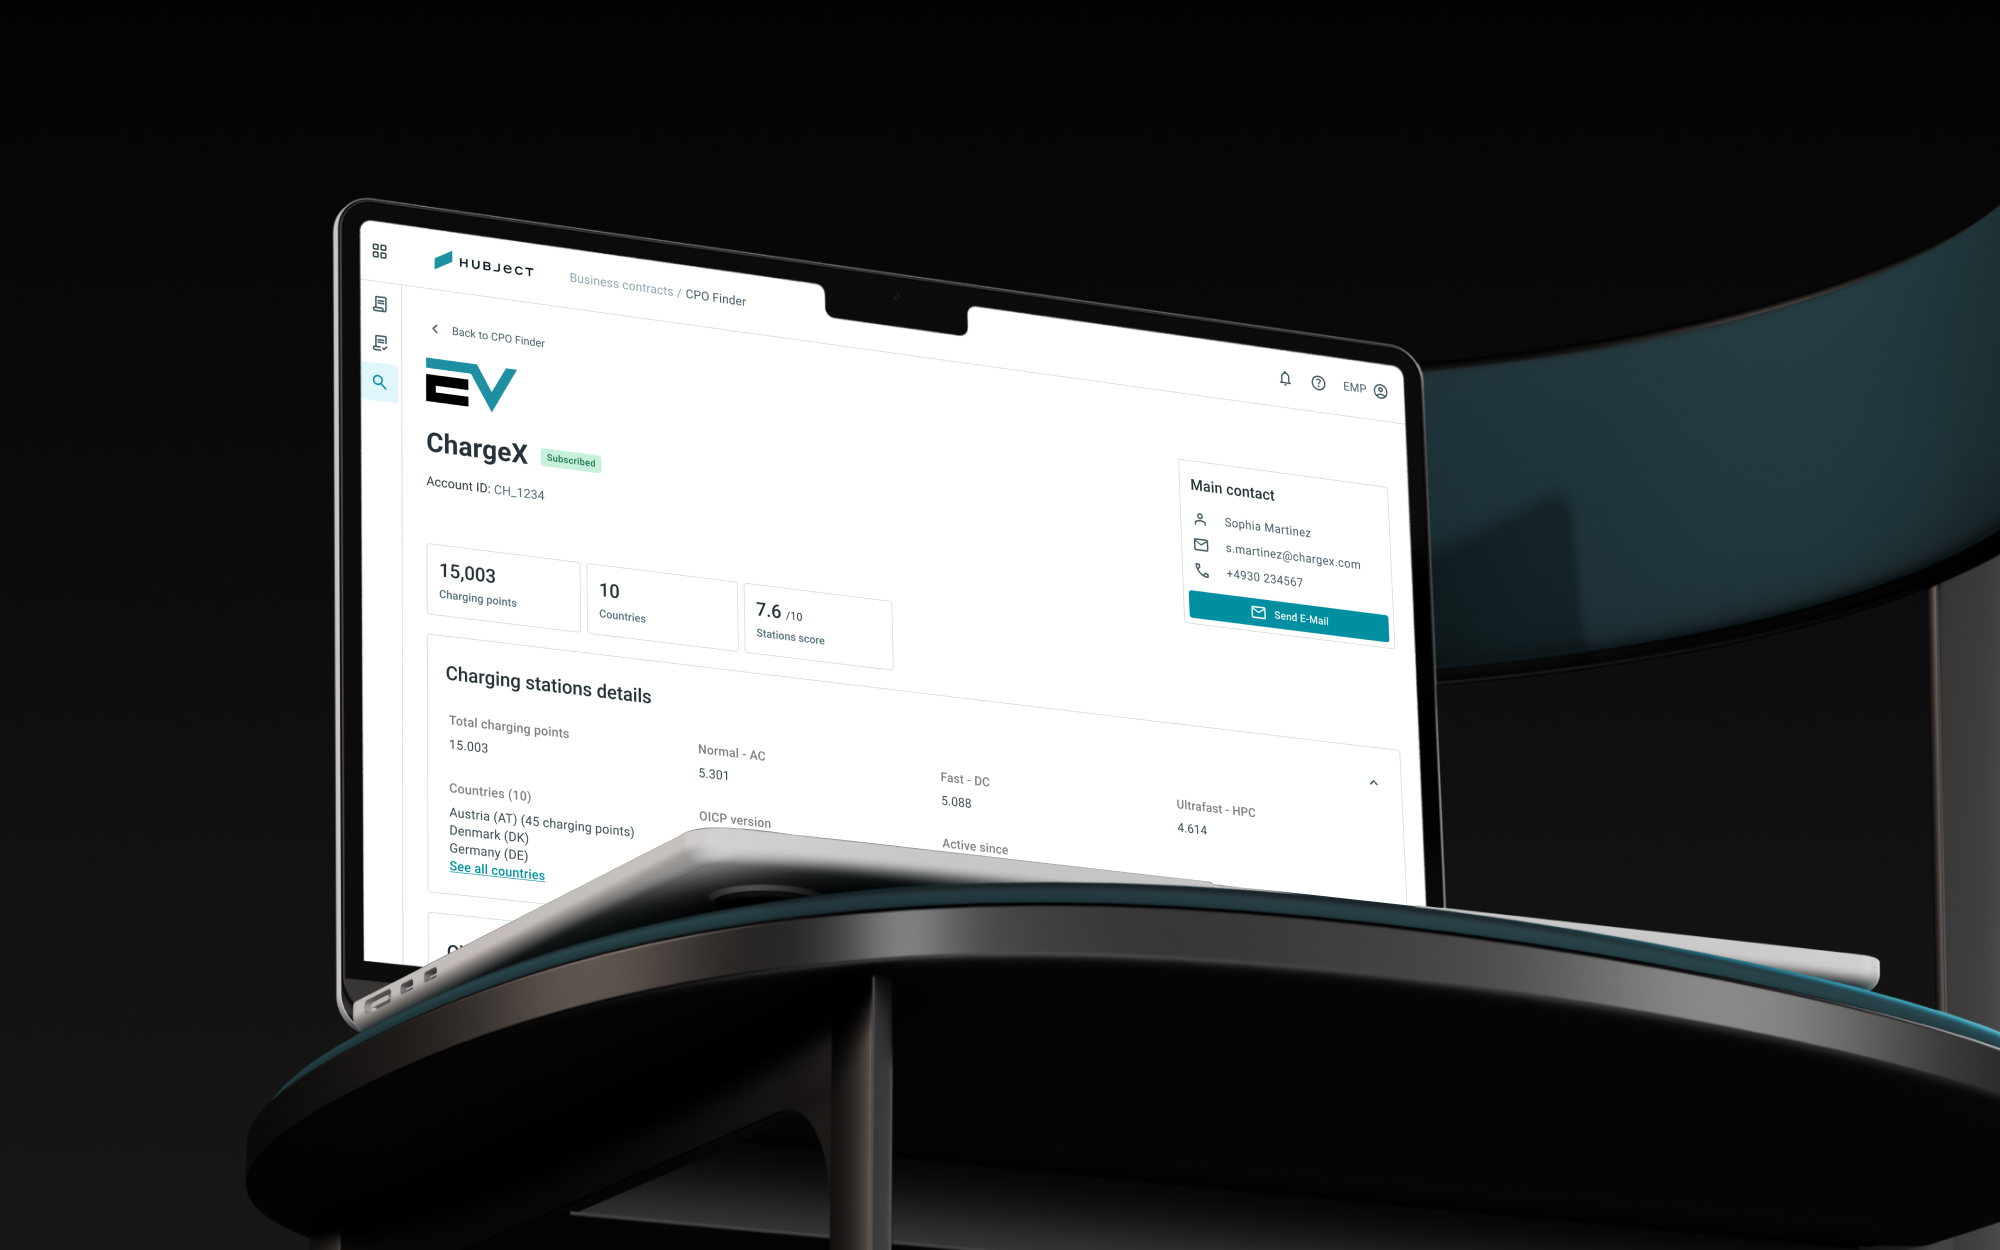
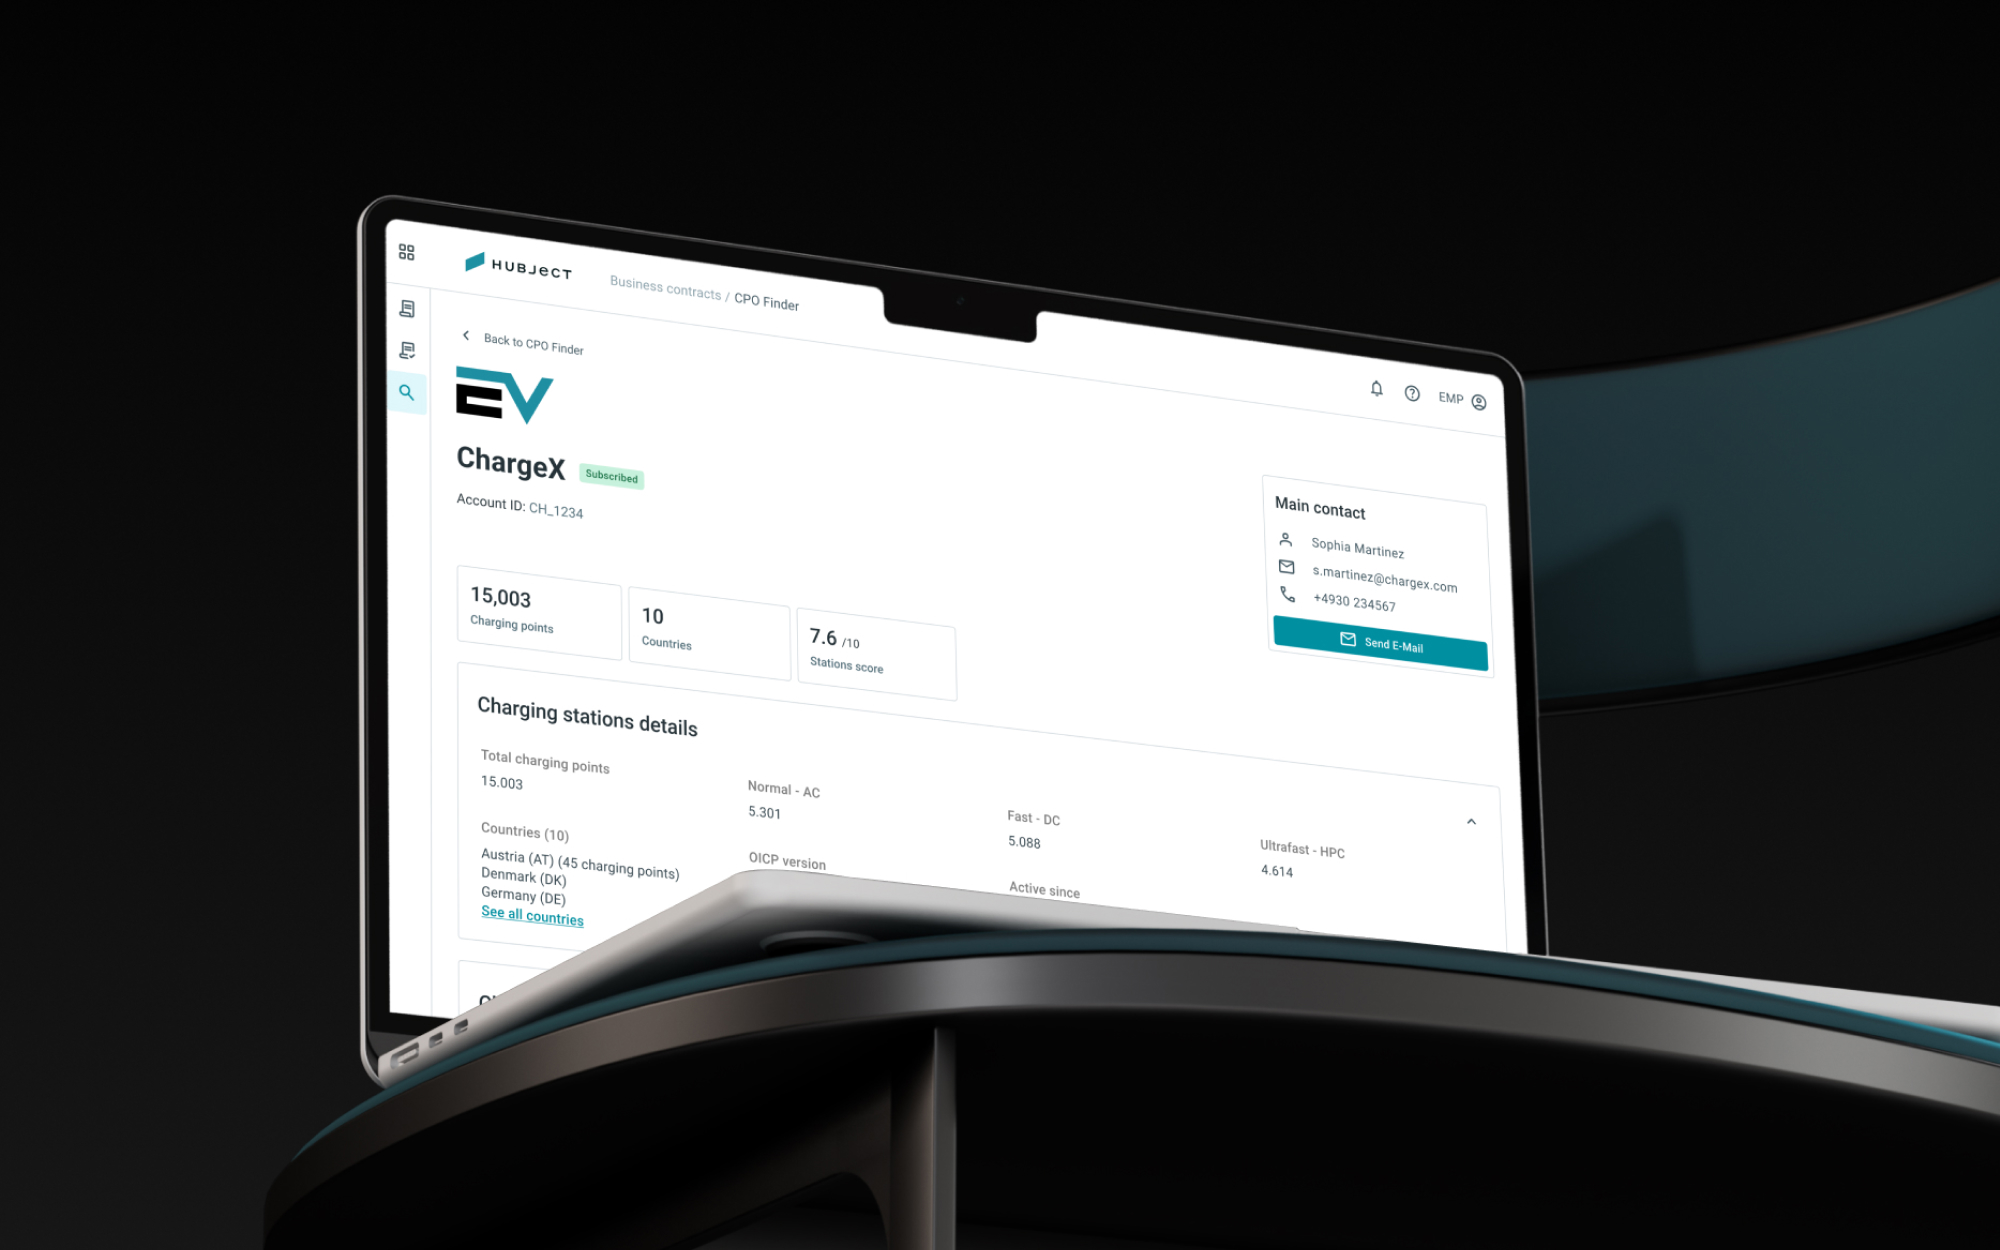
re

diff --git a/index.html b/index.html
@@ -78,7 +78,7 @@
                  <!-- Hubject CPO -->
                  <div class="fl w-100 w-100-m w-100-l ph1 ph2-l ph2-m pa2 pb4 dim-a">
                     <a class="dt" href="/project-hubject-cpo">
-                        <img class="db w-100 mw10 br3 br4-l br4-m" alt="Hubject preview" src="/img/cpo-28.jpg">
+                        <img class="db w-100 mw10 br3 br4-l br4-m" alt="Hubject preview" src="/img/cpo-27.jpg">
                     </a>
                     <div class="pt2 pb2">
                         <a class="link dark-gray f4 f4-l f4-m ex6 tl mv0" href="/project-hubject-cpo">Hubject eRoaming: Partner finder and profile page</a>
